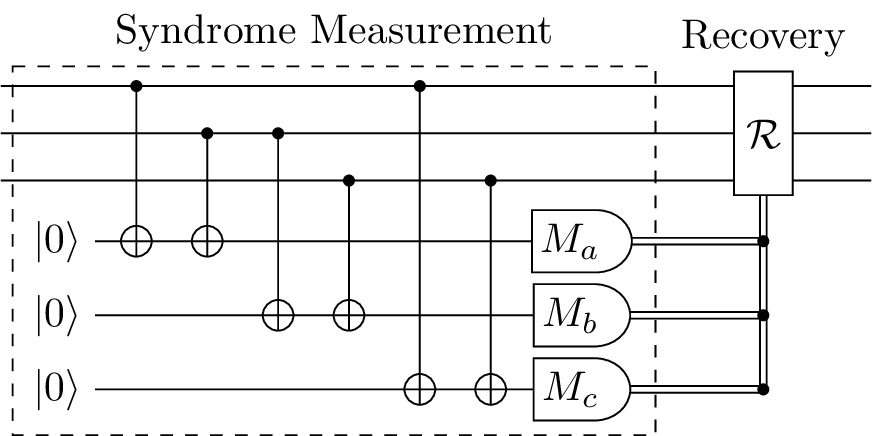
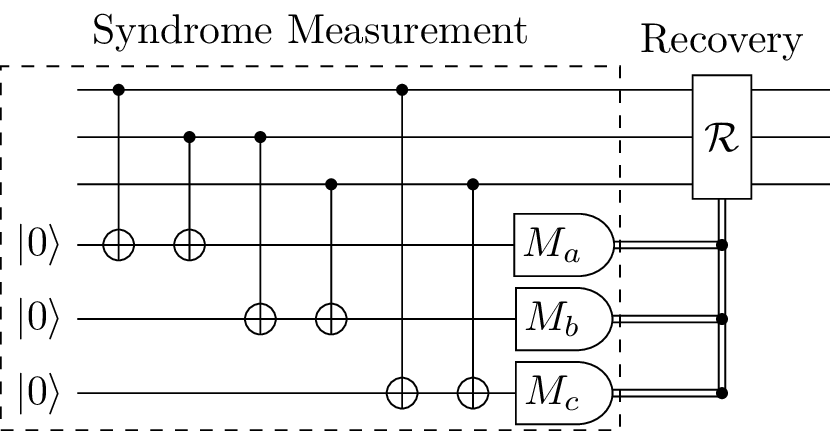
Update README

diff --git a/markdown/ex-04.tex b/markdown/ex-04.tex
@@ -1,32 +1,27 @@
-\documentclass[tikz, convert={convertexe=magick}, png]{standalone}
+\documentclass[tikz, multi=false, convert={png, imagemagick}]{standalone}
 
-\usepackage[compat=0.4]{yquant}
+\usepackage[compat=0.8]{yquant}
 \usepackage{braket}
-\yquantset{register/default name=$\ket{\reg_{\idx}}$}
 \usetikzlibrary{quotes}
 
 \begin{document}
    \begin{tikzpicture}
       \begin{yquant}
          qubit {} msg[3];
-         nobit syndrome[3];
-         
-         [this subcircuit box style={dashed, "Syndrome Measurement"}]
-         subcircuit {
-            qubit {} msg[3];
-            [out]
+
+         \encloseall["Syndrome Measurement"] {
             qubit {$\ket0$} syndrome[3];
-            
+
             cnot syndrome[0] | msg[0];
             cnot syndrome[0] | msg[1];
             cnot syndrome[1] | msg[1];
             cnot syndrome[1] | msg[2];
             cnot syndrome[2] | msg[0];
             cnot syndrome[2] | msg[2];
-            
+
             dmeter {$M_{\symbol{\numexpr`a+\idx}}$} syndrome;
-         } (msg[-2], syndrome[-2]);
-         
+         }
+
          ["Recovery"]
          box {$\mathcal R$} (msg) | syndrome;
          discard syndrome;

diff --git a/markdown/ex-03.tex b/markdown/ex-03.tex
@@ -1,6 +1,6 @@
-\documentclass[tikz, convert={convertexe=magick}, png]{standalone}
+\documentclass[tikz, multi=false, convert={png, imagemagick}]{standalone}
 
-\usepackage[compat=0.4]{yquant}
+\usepackage[compat=0.8]{yquant}
 \usepackage{braket}
 \yquantset{register/default name=$\ket{\reg_{\idx}}$}
 
@@ -10,7 +10,7 @@
          qubit q[3];
          qubit {$\ket{s_{\idx}} = \ket0$} s[2];
          cbit {$c_{\idx} = 0$} c[2];
-         
+
          h s[0];
          cnot s[1] | s[0];
          cnot s[0] | q[0];
@@ -21,7 +21,7 @@
          cnot c[0] | s[0];
          cnot c[1] | s[1];
          discard s; % to suppress wires extending until re-initialization
-         
+
          init {$\ket0$} s;
          h s[0];
          cnot s[1] | s[0];
@@ -30,7 +30,7 @@
          cnot s[1] | s[0];
          h s[0];
          measure s;
-         
+
          box {Process\\Syndrome} (s, c);
          box {$\mathcal R$} (q) | s, c;
       \end{yquant}

diff --git a/markdown/ex-01.tex b/markdown/ex-01.tex
@@ -1,6 +1,6 @@
-\documentclass[tikz, convert={convertexe=magick}, png]{standalone}
+\documentclass[tikz, multi=false, convert={png, imagemagick}]{standalone}
 
-\usepackage[compat=0.4]{yquant}
+\usepackage[compat=0.8]{yquant}
 \usepackage{braket}
 \yquantset{register/default name=$\ket{\reg_{\idx}}$}
 
@@ -8,13 +8,13 @@
    \begin{tikzpicture}
       \begin{yquant}
          qubit q[3];
-         
+
          h q[1];
          cnot q[2] | q[1];
          cnot q[1] | q[0];
          h q[0];
          measure q[0-1];
-         
+
          z q[2] | q[1];
          x q[2] | q[0];
       \end{yquant}

diff --git a/markdown/ex-02.tex b/markdown/ex-02.tex
@@ -1,6 +1,6 @@
-\documentclass[tikz, convert={convertexe=magick}, png]{standalone}
+\documentclass[tikz, multi=false, convert={png, imagemagick}]{standalone}
 
-\usepackage[compat=0.4]{yquant}
+\usepackage[compat=0.8]{yquant}
 \usepackage{braket}
 \yquantset{register/default name=$\ket{\reg_{\idx}}$}
 
@@ -9,7 +9,7 @@
       \begin{yquant}
          qubit {$\ket{j_{\idx}} = \ket0$} j[3];
          qubit s[2];
-         
+
          h j;
          box {$U^4$} (s) | j[0];
          box {$U^2$} (s) | j[1];

diff --git a/markdown/ex-05.tex b/markdown/ex-05.tex
@@ -1,8 +1,7 @@
-\documentclass[tikz, convert={convertexe=magick}, png]{standalone}
+\documentclass[tikz, multi=false, convert={png, imagemagick}]{standalone}
 
-\usepackage[compat=0.4]{yquant}
+\usepackage[compat=0.8]{yquant}
 \usepackage{braket}
-\yquantset{register/default name=$\ket{\reg_{\idx}}$}
 
 \begin{document}
    \begin{tikzpicture}

diff --git a/markdown/ex-06.tex b/markdown/ex-06.tex
@@ -1,6 +1,6 @@
-\documentclass[tikz, convert={convertexe=magick}, png]{standalone}
+\documentclass[tikz, multi=false, convert={png, imagemagick}]{standalone}
 
-\usepackage[compat=0.4]{yquant}
+\usepackage[compat=0.8]{yquant}
 \useyquantlanguage{groups}
 \usepackage{braket}
 

diff --git a/README.md b/README.md
@@ -6,6 +6,7 @@ yquant is a pure-LaTeX solution - i.e., it requires no external program - that i
 It builds on and interacts with TiKZ, which brings an enourmous flexibility for customization of individual circuit.
 
 Important features in the latest updates (for a much more complete list, see the documentation):
+- Support for comfortably enclosing or embracing region in a circuit (since 0.9)
 - Support for `\intertext` in groups (since 0.8)
 - Support for [corner-like gates](https://arxiv.org/abs/1709.06648) by allowing for controlled `init` and `discard` gates (since 0.8)
 - Support for custom attributes in custom gates and boxes, making them effectively parameteric (since 0.8)
@@ -27,7 +28,7 @@ Important features in the latest updates (for a much more complete list, see the
 
 A detailed reference with lots of examples is provided in the PDF version of this Readme. We will sketch some basic usage.
 
-The arXiv runs on version 0.7.4 - you may download the latest version from the releases section and include it in your submission.
+The arXiv runs on version 0.7.4 (TeXLive 2023) and 0.7.5 (TeXLive 2025) - you may download the latest version from the releases section and include it in your submission.
 
 Support the development:
 - [![PayPal](https://img.shields.io/badge/donate-via%20PayPal-blue.svg?style=flat)](https://www.paypal.com/cgi-bin/webscr?cmd=_s-xclick&hosted_button_id=UTR3MRBYJ825A&source=url)
@@ -120,23 +121,19 @@ Only the interesting part is shown here; `\usepackage[compat=0.6]{yquant}` is re
 \begin{tikzpicture}
   \begin{yquant}
     qubit {} msg[3];
-    nobit syndrome[3];
 
-    [this subcircuit box style={dashed, "Syndrome Measurement"}]
-    subcircuit {
-       qubit {} msg[3];
-       [out]
-       qubit {$\ket0$} syndrome[3];
+    \encloseall["Syndrome Measurement"]{
+        qubit {$\ket0$} syndrome[3];
 
-       cnot syndrome[0] | msg[0];
-       cnot syndrome[0] | msg[1];
-       cnot syndrome[1] | msg[1];
-       cnot syndrome[1] | msg[2];
-       cnot syndrome[2] | msg[0];
-       cnot syndrome[2] | msg[2];
-
-       dmeter {$M_{\symbol{\numexpr`a+\idx}}$} syndrome;
-    } (msg[-2], syndrome[-2]);
+        cnot syndrome[0] | msg[0];
+        cnot syndrome[0] | msg[1];
+        cnot syndrome[1] | msg[1];
+        cnot syndrome[1] | msg[2];
+        cnot syndrome[2] | msg[0];
+        cnot syndrome[2] | msg[2];
+        [shape=yquant-rectangle, rounded corners=.45em]
+        dmeter {$M_{\symbol{\numexpr`a+\idx}}$} syndrome;
+    }
 
     ["Recovery"]
     box {$\mathcal R$} (msg) | syndrome;
